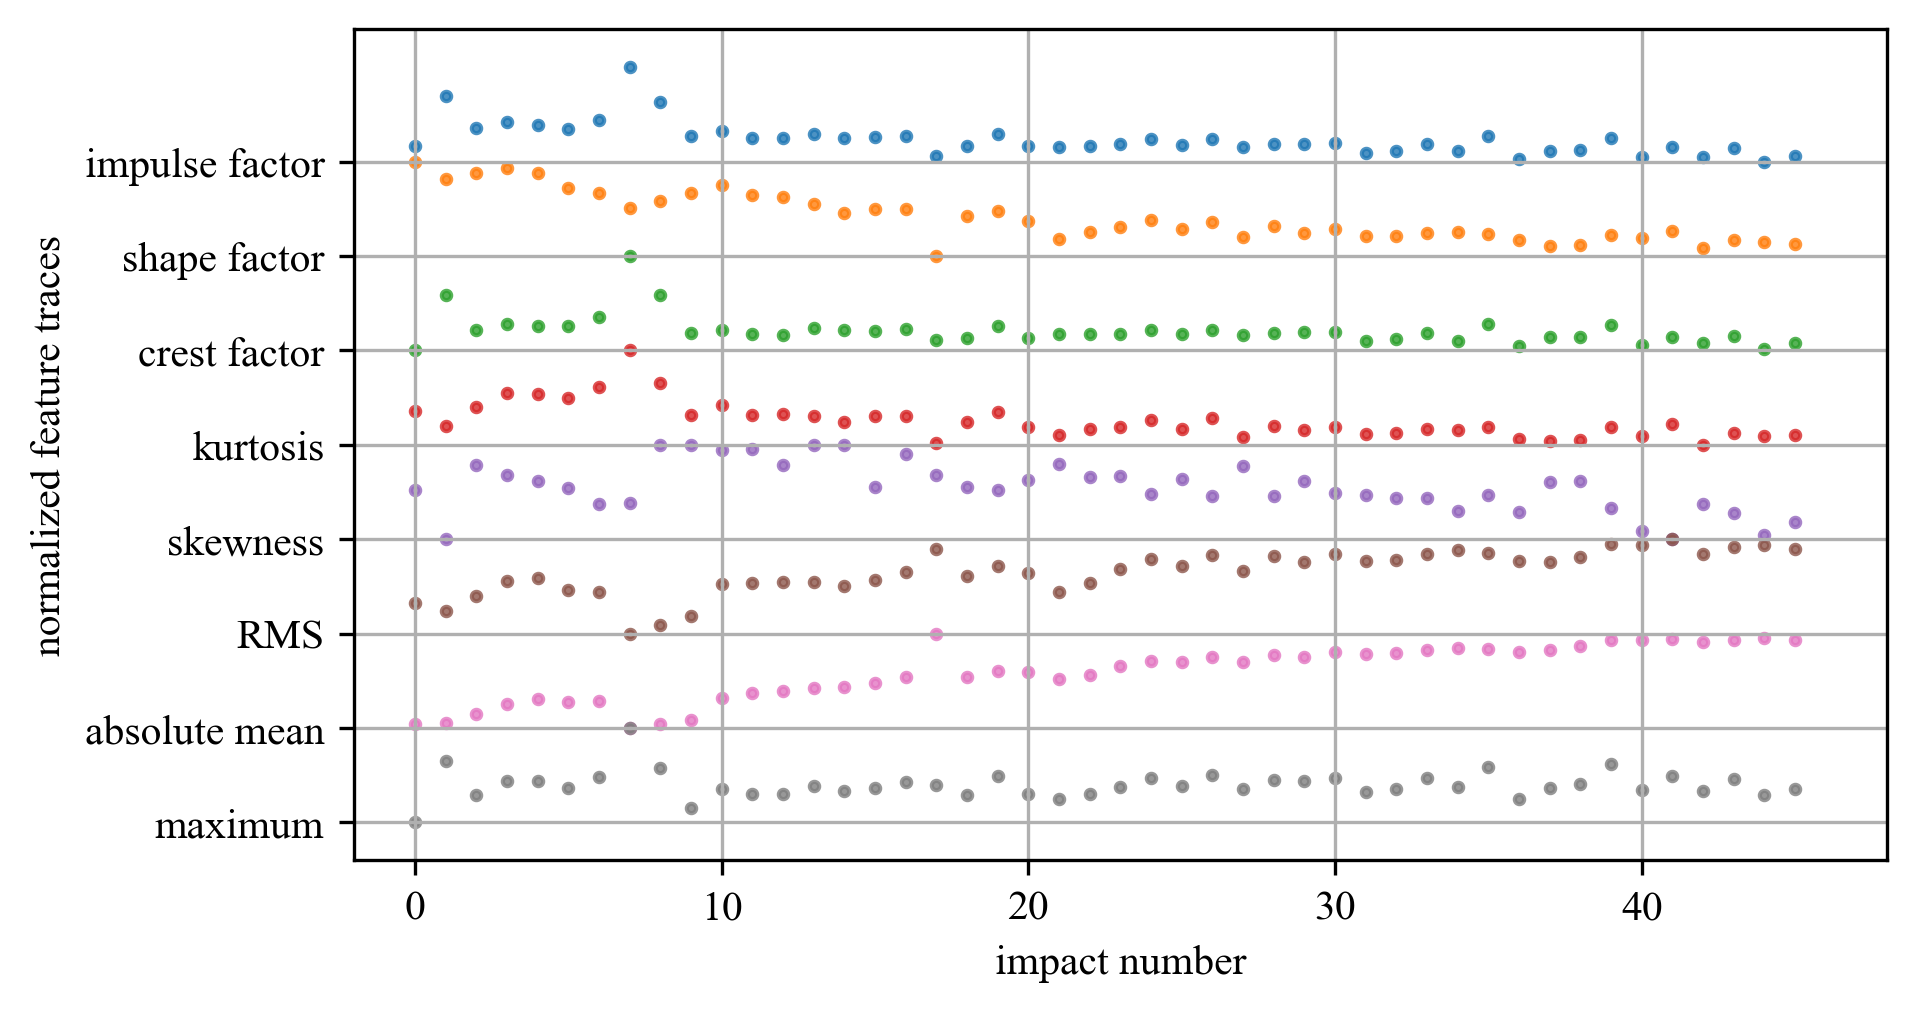
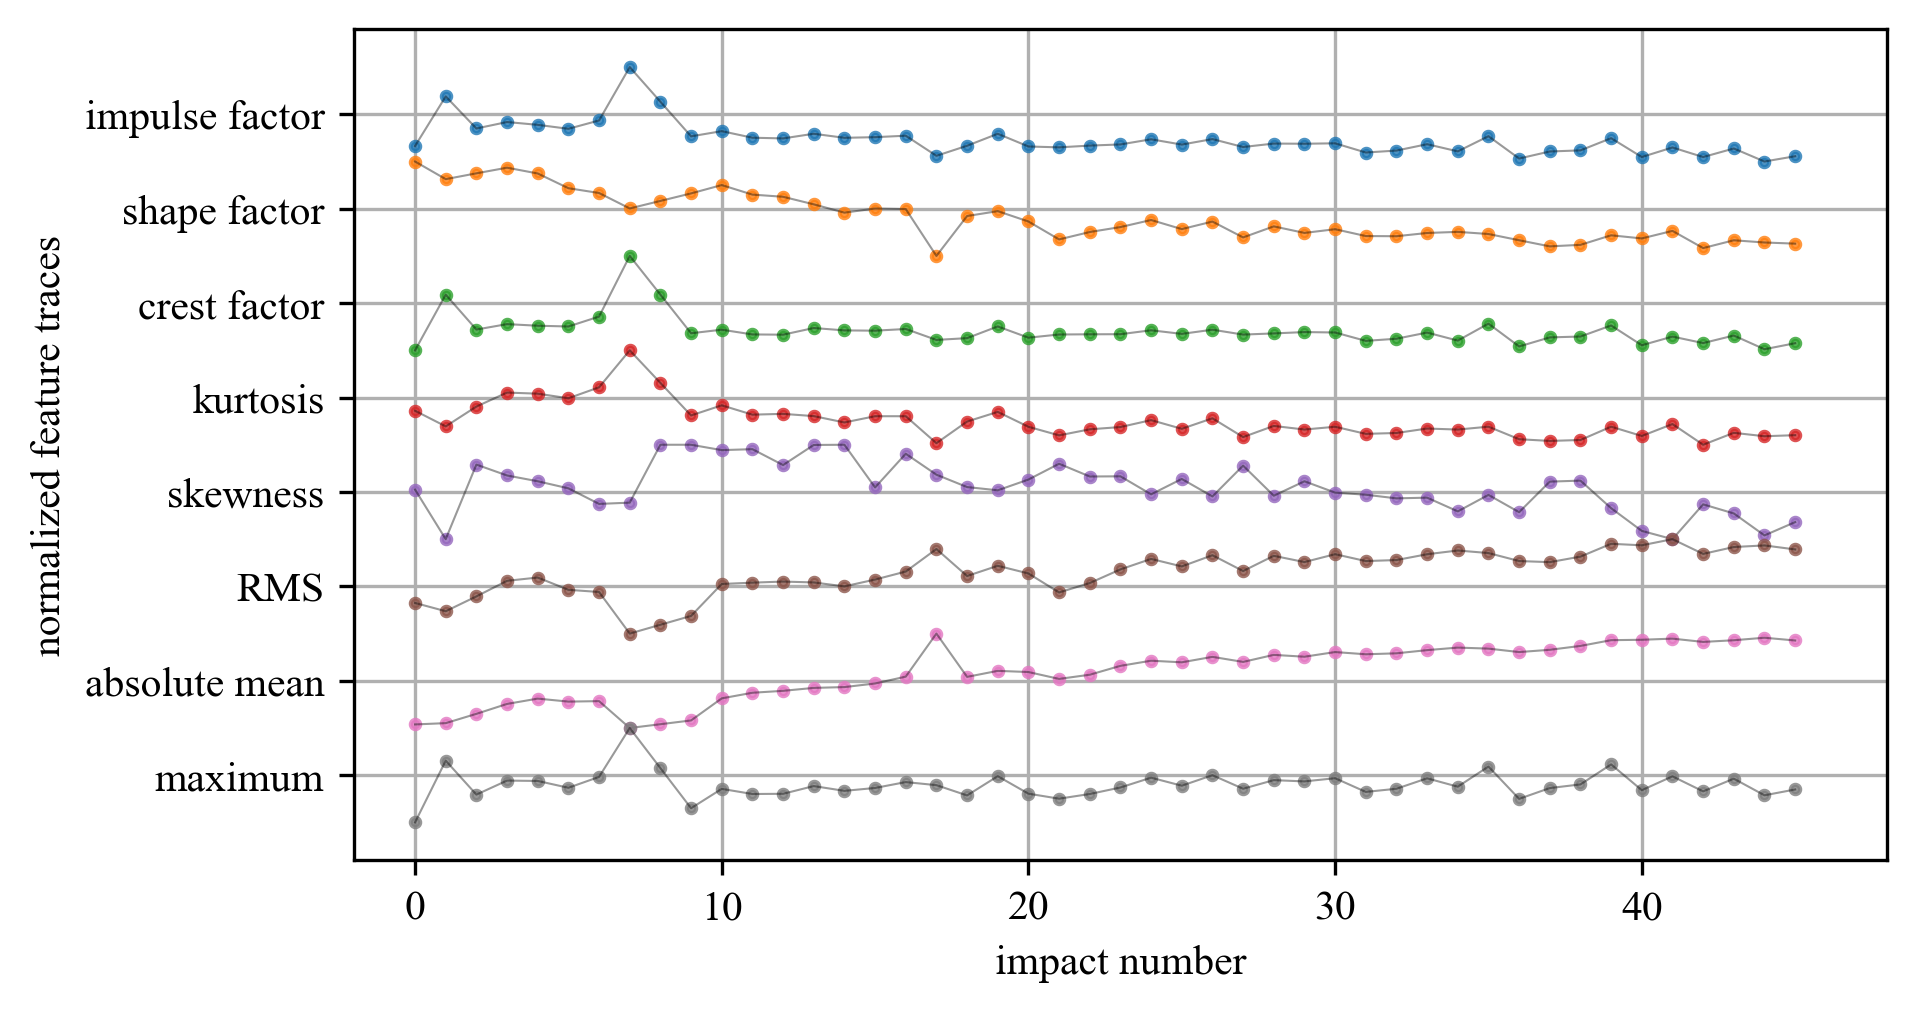
Plotting Updated

diff --git a/Analysis/IMAC_plotting.py b/Analysis/IMAC_plotting.py
@@ -360,33 +360,37 @@ for i, board in enumerate(data_list):
         #             linewidth=0.5)
         #     j -= 1
             
-        # --- Plot stacked traces (as points) ---
+        # --- Plot stacked traces (scatter + line) ---
         fig, ax = plt.subplots(figsize=(6.5, 3.5))
         j = len(norms) - 1
         for trace, fname in zip(norms[::-1], feature_names[::-1]):  # reverse for correct order
-            offset_trace = trace + j * y_offset
+            offset_trace = trace + j * y_offset - 0.5  # shift upward so centered in its lane
             trace_masked = ma.masked_invalid(offset_trace)
-            ax.scatter(np.arange(len(trace)), trace_masked,
-                        label=fname.lower() if fname.lower() != "rms" else "RMS",
-                        s=5,  # marker size
-                        alpha=0.8)  # optional transparency
+        
+            xvals = np.arange(len(trace))
+            # scatter
+            ax.scatter(xvals, trace_masked,
+                       label=fname.lower() if fname.lower() != "rms" else "RMS",
+                       s=5, alpha=0.8, zorder=2)
+            # line through points
+            ax.plot(xvals, trace_masked, linewidth=0.5, color="black", alpha=0.4, zorder=2)
+        
             j -= 1
-
-    
+        
         # y-ticks with lowercase except RMS
         ytick_labels = [f.lower() if f.lower() != "rms" else "RMS" for f in feature_names]
         ax.set_yticks(np.arange(0, len(feature_names), 1))
         ax.set_yticklabels(ytick_labels)
-
+        
         ax.set_xlabel("impact number")
         ax.set_ylabel("normalized feature traces")
-        ax.grid(True, zorder=1)
-
+        ax.grid(True, zorder=0)  # grid drawn underneath everything
+        
         # --- Apply custom x-range per board ---
         save_name = board_save_map[board].lower()
         if save_name in x_ranges:
             ax.set_xlim(*x_ranges[save_name])
-
+        
         plt.tight_layout()
         plt.savefig(os.path.join(save_path, f"{save_name}_features_stacked.png"),
                     dpi=300, bbox_inches="tight")
